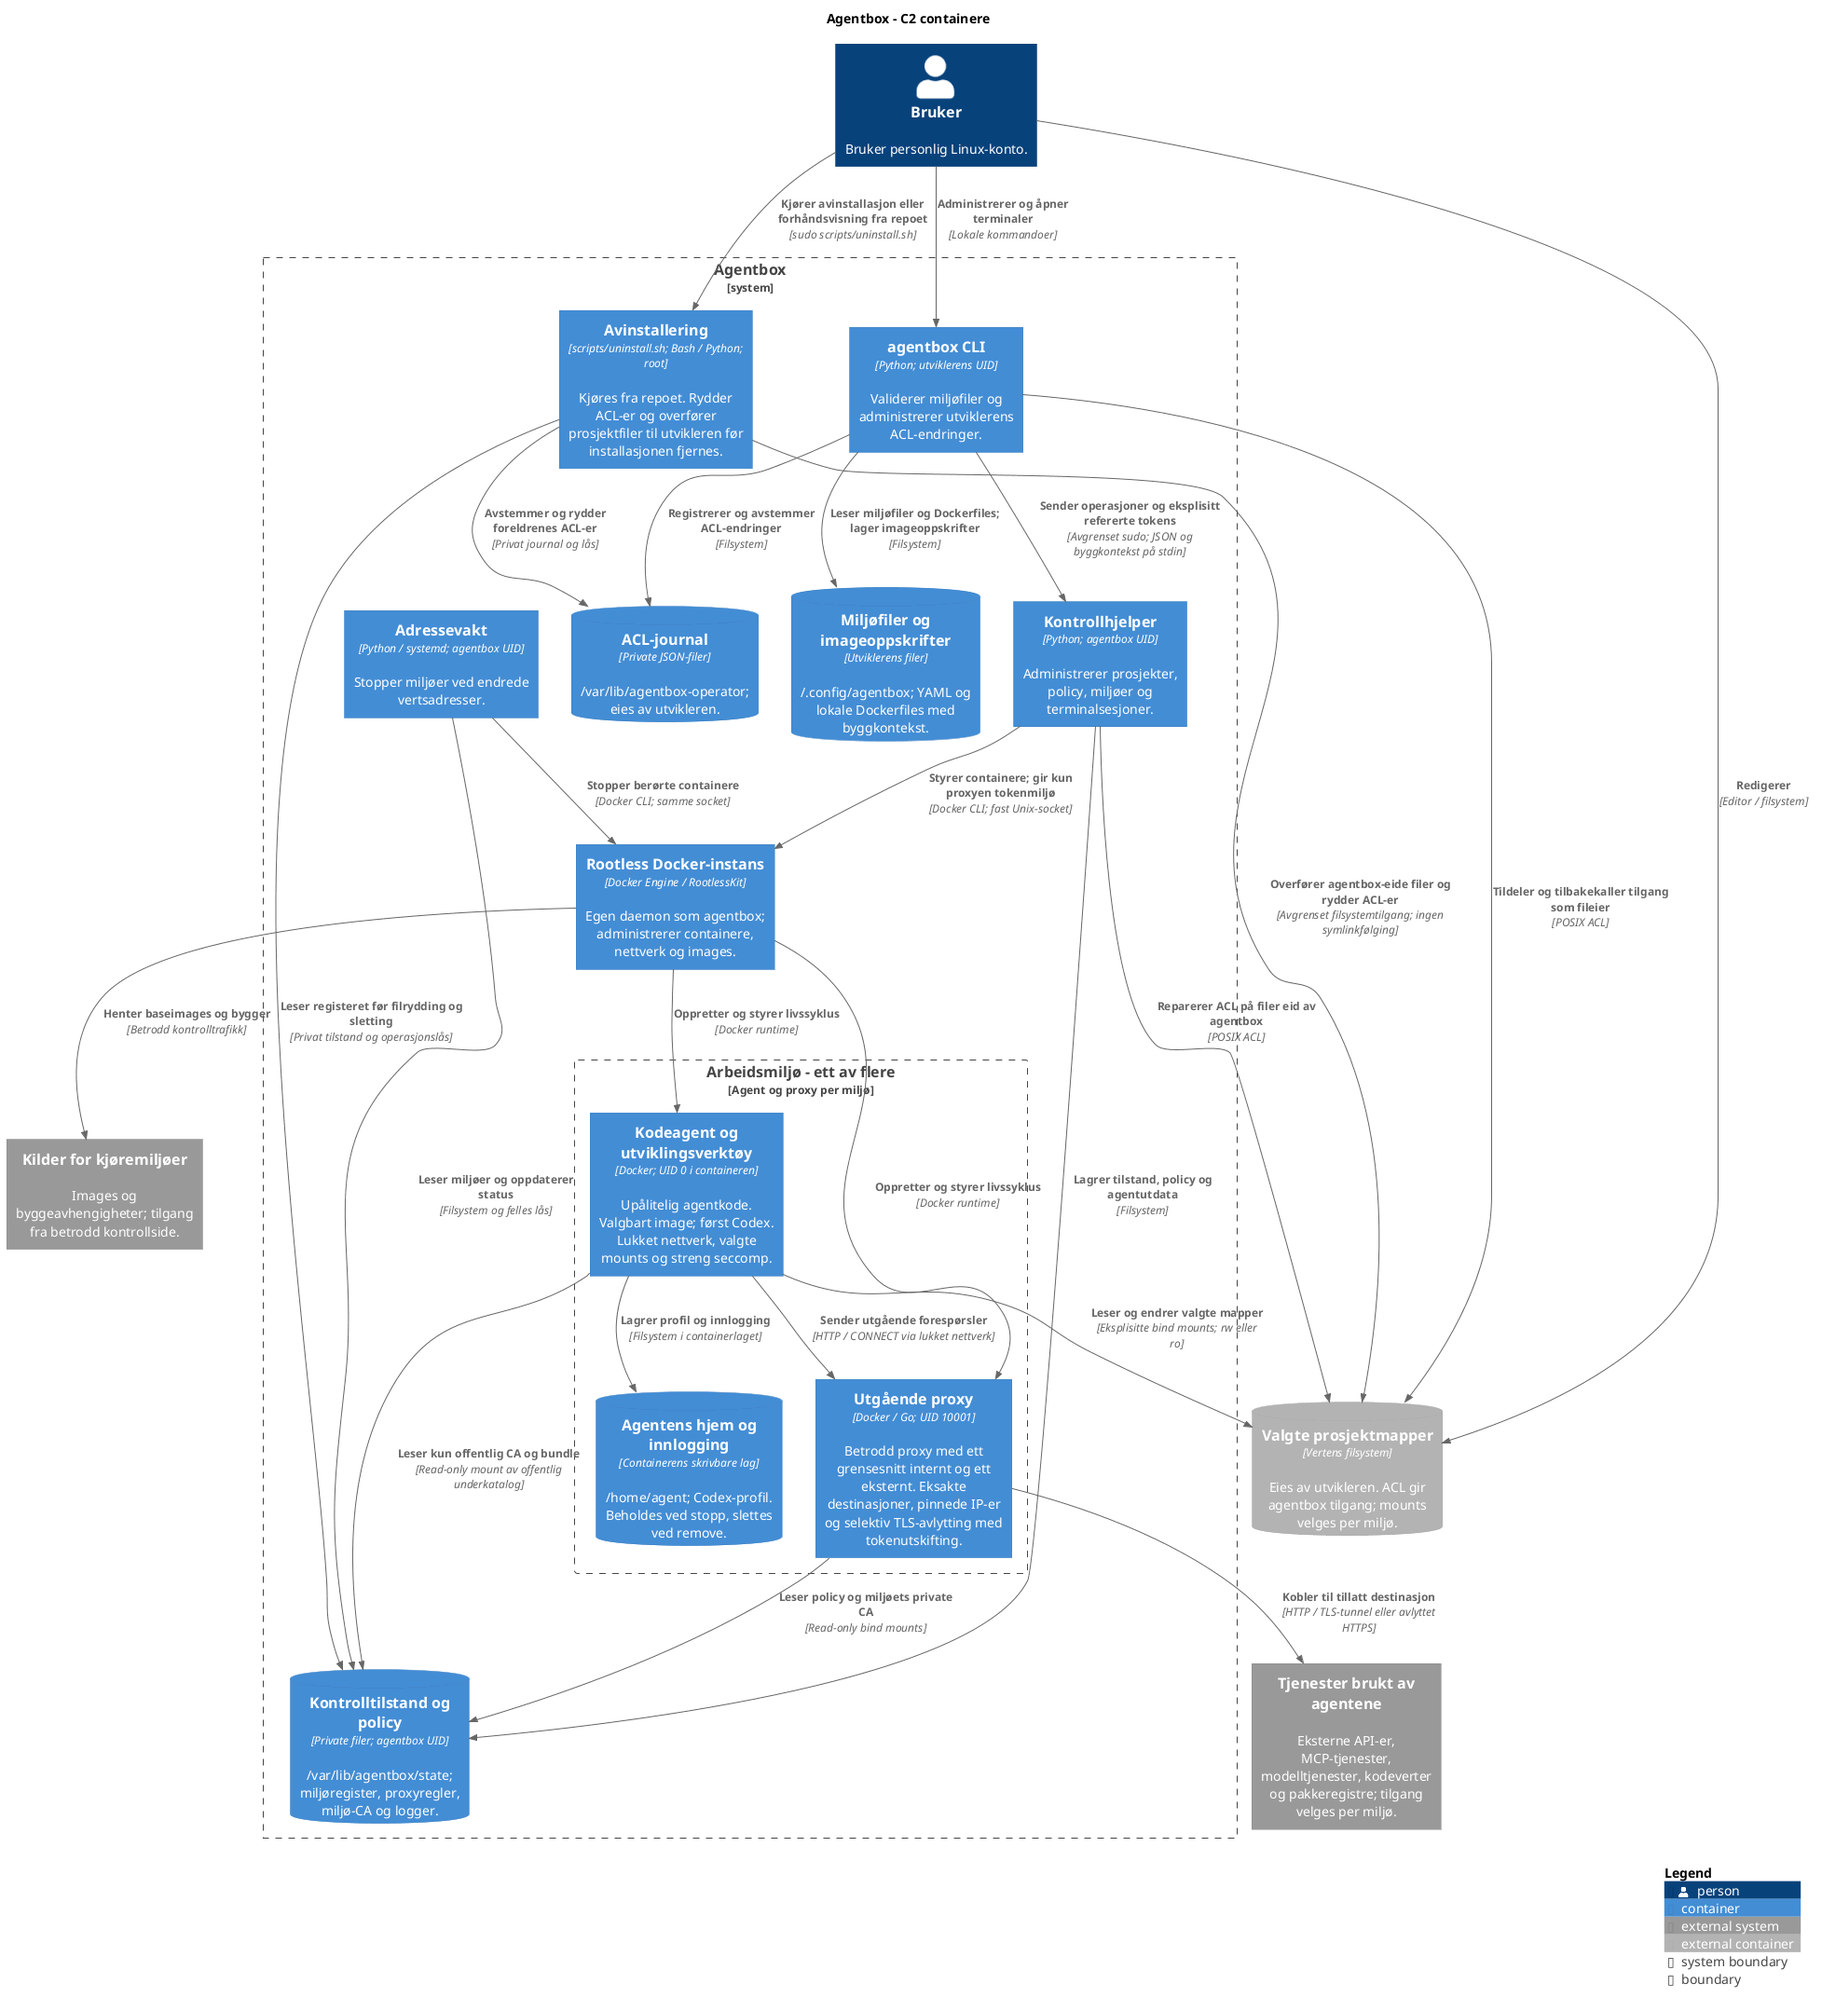
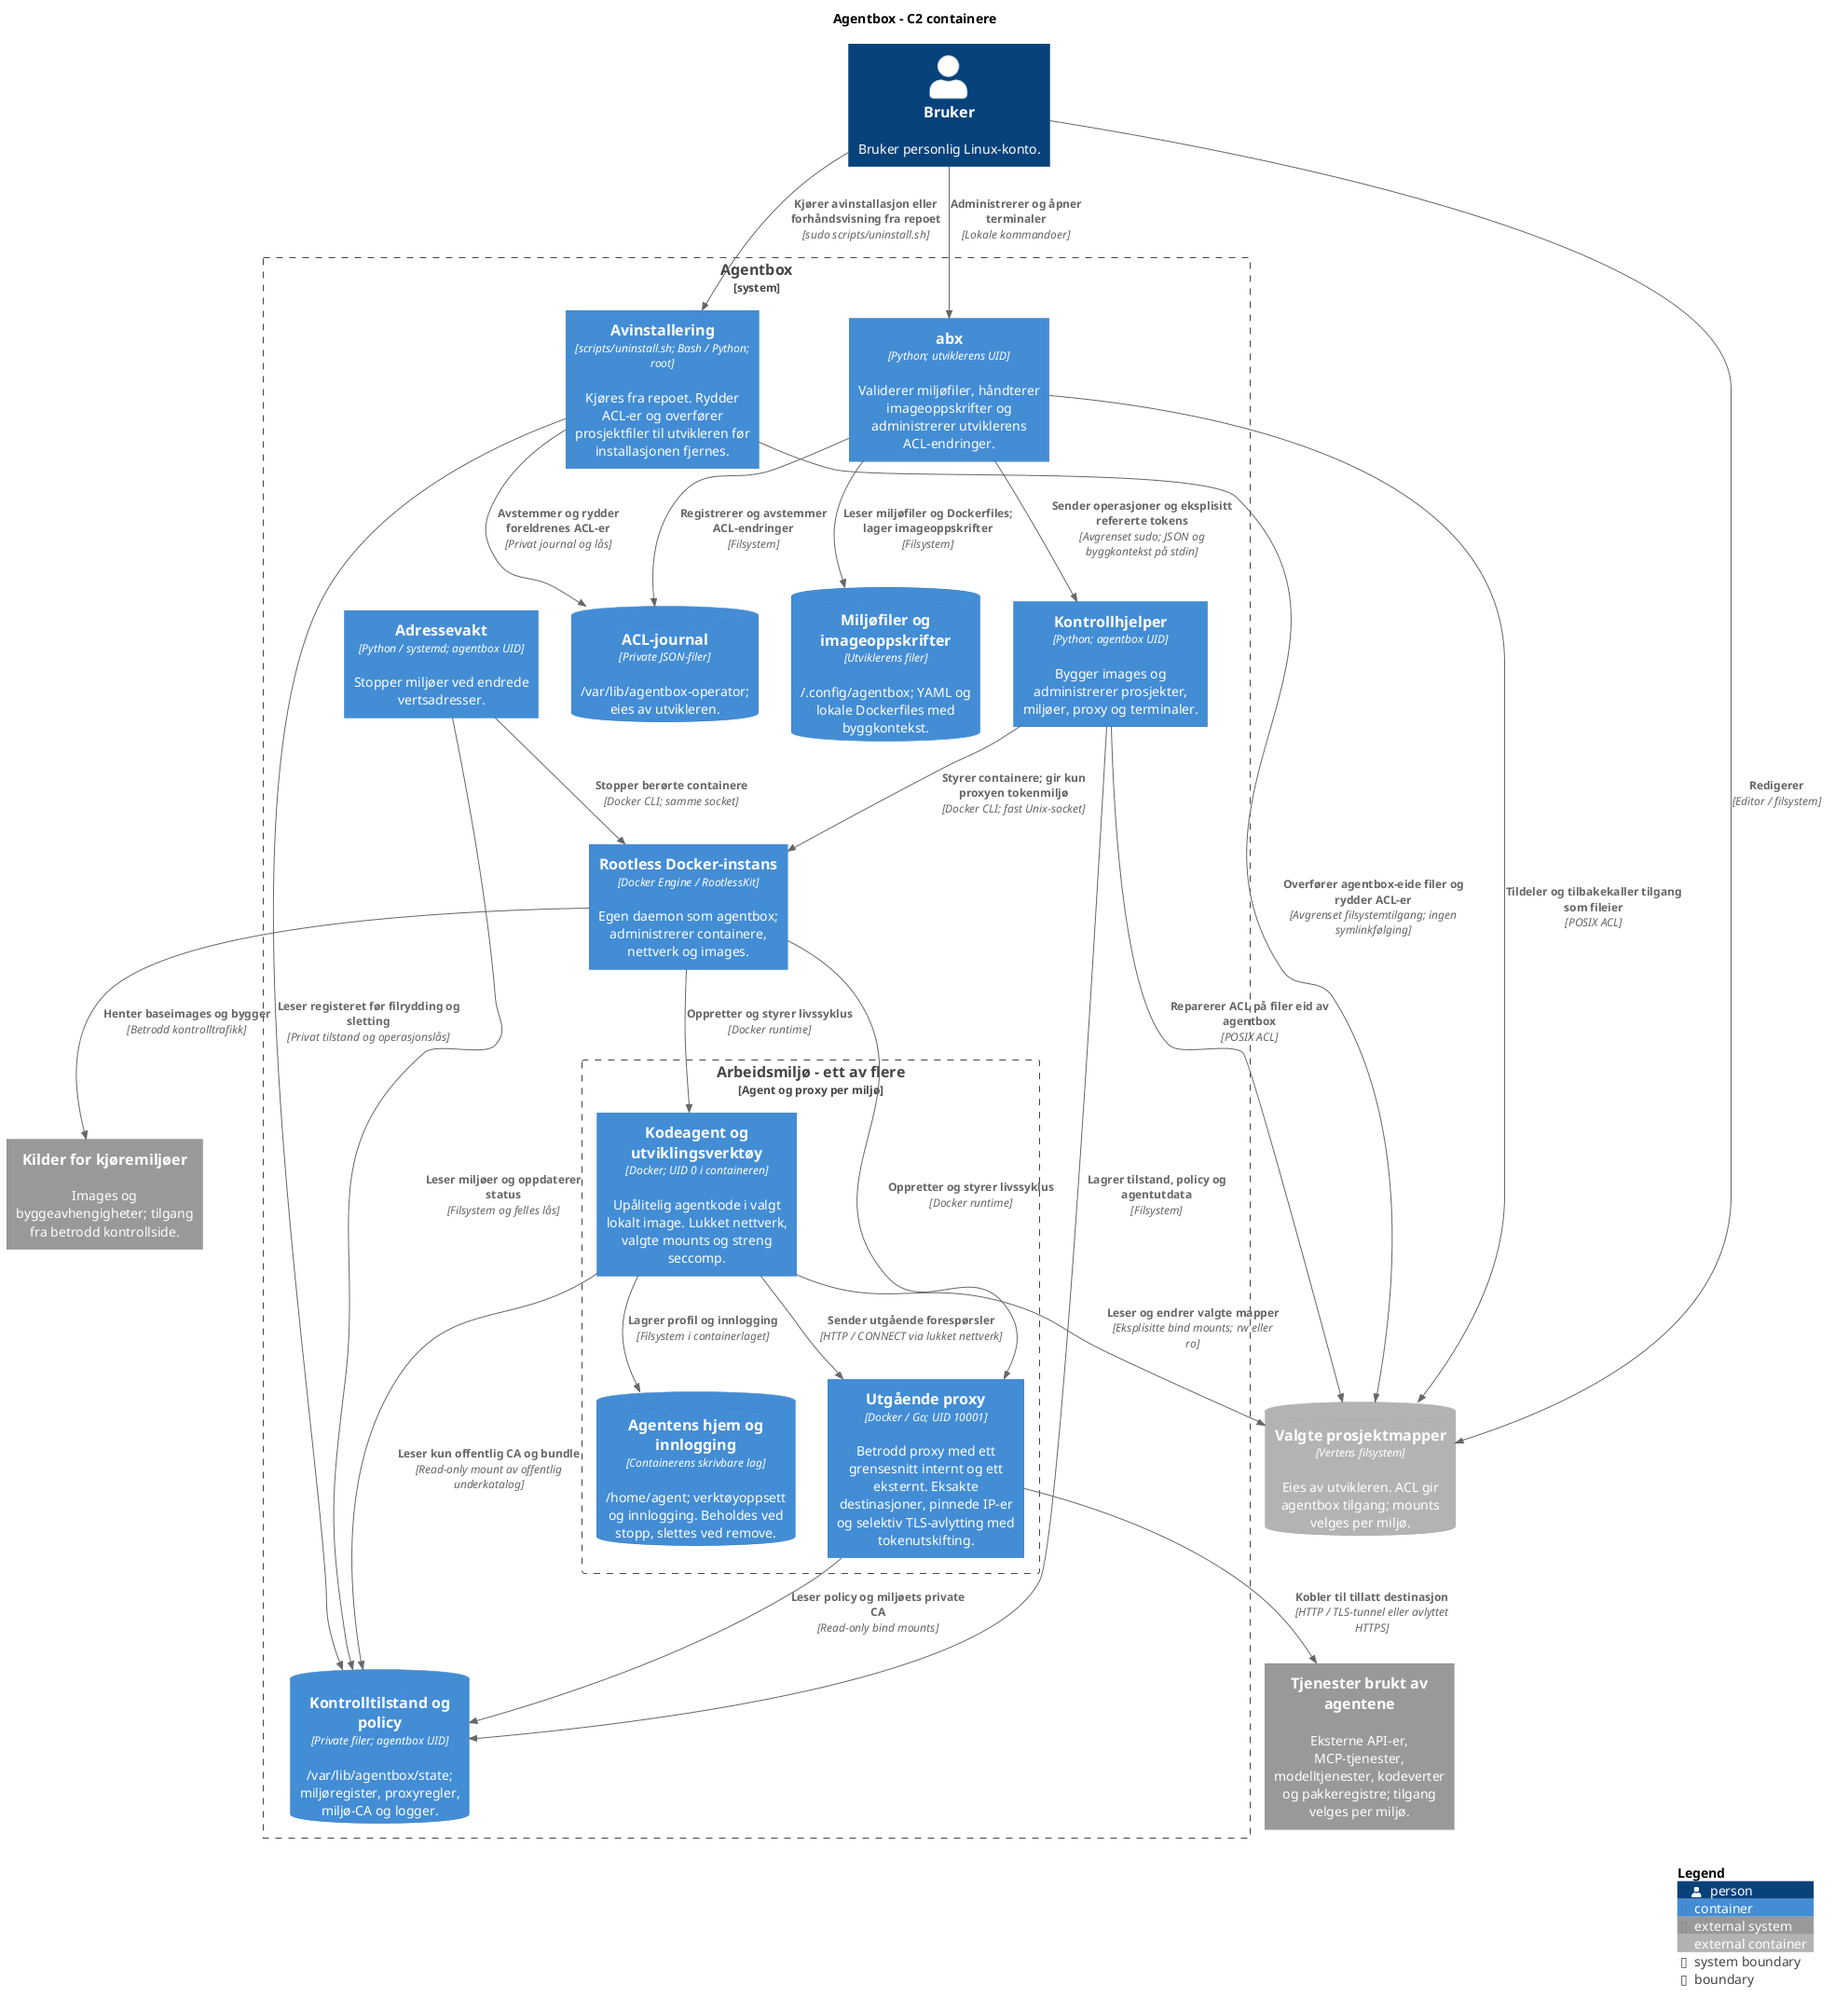
Generalize agent architecture diagrams (#9)

diff --git a/docs/architecture-c4.md b/docs/architecture-c4.md
@@ -46,7 +46,7 @@ brukes i begge roller, eksempelvis et pakkeregister.
 
 API-er og MCP-tjenester kan brukes når miljøets destinasjonsregler tillater
 det. Agentbox tilbyr ikke selv et MCP-grensesnitt. Agenttrafikk avvises som
-standard; imagehenting og imagebygging skjer på kontrollsiden utenfor denne
+standard; imagebygging og henting av baseimages skjer på kontrollsiden utenfor denne
 nettverkspolicyen. C2 viser hvilke deler som håndterer de to trafikkveiene.
 
 ## C2 containere
@@ -68,19 +68,19 @@ System_Ext(services, "Tjenester brukt av agentene", "Eksterne API-er, MCP-tjenes
 System_Ext(registry, "Kilder for kjøremiljøer", "Images og byggeavhengigheter; tilgang fra betrodd kontrollside.")
 
 System_Boundary(agentbox, "Agentbox") {
-    Container(cli, "agentbox CLI", "Python; utviklerens UID", "Validerer miljøfiler og administrerer utviklerens ACL-endringer.")
+    Container(cli, "abx", "Python; utviklerens UID", "Validerer miljøfiler, håndterer imageoppskrifter og administrerer utviklerens ACL-endringer.")
     ContainerDb(recipes, "Miljøfiler og imageoppskrifter", "Utviklerens filer", "~/.config/agentbox; YAML og lokale Dockerfiles med byggkontekst.")
     ContainerDb(journal, "ACL-journal", "Private JSON-filer", "/var/lib/agentbox-operator; eies av utvikleren.")
-    Container(control, "Kontrollhjelper", "Python; agentbox UID", "Administrerer prosjekter, policy, miljøer og terminalsesjoner.")
+    Container(control, "Kontrollhjelper", "Python; agentbox UID", "Bygger images og administrerer prosjekter, miljøer, proxy og terminaler.")
     Container(uninstall, "Avinstallering", "scripts/uninstall.sh; Bash / Python; root", "Kjøres fra repoet. Rydder ACL-er og overfører prosjektfiler til utvikleren før installasjonen fjernes. ")
     Container(watch, "Adressevakt", "Python / systemd; agentbox UID", "Stopper miljøer ved endrede vertsadresser.")
     ContainerDb(state, "Kontrolltilstand og policy", "Private filer; agentbox UID", "/var/lib/agentbox/state; miljøregister, proxyregler, miljø-CA og logger.")
     Container(docker, "Rootless Docker-instans", "Docker Engine / RootlessKit", "Egen daemon som agentbox; administrerer containere, nettverk og images.")
 
     Boundary(environment, "Arbeidsmiljø - ett av flere", "Agent og proxy per miljø") {
-        Container(agent, "Kodeagent og utviklingsverktøy", "Docker; UID 0 i containeren", "Upålitelig agentkode. Valgbart image; først Codex. Lukket nettverk, valgte mounts og streng seccomp.")
+        Container(agent, "Kodeagent og utviklingsverktøy", "Docker; UID 0 i containeren", "Upålitelig agentkode i valgt lokalt image. Lukket nettverk, valgte mounts og streng seccomp.")
         Container(proxy, "Utgående proxy", "Docker / Go; UID 10001", "Betrodd proxy med ett grensesnitt internt og ett eksternt. Eksakte destinasjoner, pinnede IP-er og selektiv TLS-avlytting med tokenutskifting.")
-        ContainerDb(home, "Agentens hjem og innlogging", "Containerens skrivbare lag", "/home/agent; Codex-profil. Beholdes ved stopp, slettes ved remove.")
+        ContainerDb(home, "Agentens hjem og innlogging", "Containerens skrivbare lag", "/home/agent; verktøyoppsett og innlogging. Beholdes ved stopp, slettes ved remove.")
     }
 }
 
@@ -128,7 +128,7 @@ SHOW_LEGEND()
   ekte tokens tilføres bare proxyens miljø. Kontrollhjelperen gjør navneoppløsning
   og adressevalidering før de fastlåste adressene tas i bruk.
 - Prosjektmapper ligger på verten og overlever fjerning av miljøet. Agentens
-  hjem ligger i containerlaget; separat profilvolum er fortsatt et mulig videre valg.
+  hjem ligger i containerlaget; separat profilvolum støttes ikke.
 - Rootless-containerne deler vertens kjerne. Ved et utbrudd med `agentbox`
   sine rettigheter gjelder brukerens samlede vertstilgang, også til andre registrerte prosjekter.
   Agentens UID 0 mappes til tjenestebrukeren på verten; proxyen bruker en egen

diff --git a/docs/architecture.md b/docs/architecture.md
@@ -58,8 +58,8 @@ En systemd-adressevakt stopper miljøer ved endrede vertsadresser;
 vakten er asynkron, og nettverksadministrasjon på verten er betrodd.
 
 Agentimages bygges fra lokale Dockerfiles under `~/.config/agentbox/images/`
-og velges med oppskriftsnavn i YAML. Codex-malen og det separate testimaget
-bruker samme isolering. Images må støtte UID 0, `/bin/sh` og
+og velges med oppskriftsnavn i YAML. Alle kompatible agentimages bruker
+samme isolering. Images må støtte UID 0, `/bin/sh` og
 `sleep infinity`; deklarerte `VOLUME`-mounts avvises.
 Byggkonteksten overføres fra CLI-en som tar etter en JSON-header og pakkes ut
 i en privat midlertidig katalog med datafilter. Docker bygger katalogen og
@@ -77,8 +77,8 @@ Skriptet bruker systemets Python uavhengig av den installerte CLI-en.
 Vanlige kontrolloperasjoner får ikke denne root-tilgangen. Se
 [avinstallasjon](installation.md#avinstallasjon) for omfang og filrydding.
 
-`stop` bevarer containerlaget, inkludert Codex-innlogging. Uendret konfigurasjon
-kan startes igjen. Nettverk/tokenregler aktiveres med `proxy apply` uten å
+`stop` bevarer containerlaget, inkludert verktøyoppsett og innlogging.
+Uendret konfigurasjon kan startes igjen. Nettverk/tokenregler aktiveres med `proxy apply` uten å
 slette hjemmet. Endret agentprofil eller vertsadresse krever `remove` og ny
 `start`; hjem og innlogging slettes da, mens monterte prosjektfiler består.
 Separat profilvolum og automatisk oppstart av miljøer etter vertsreboot er
@@ -146,5 +146,5 @@ En godkjent upstream kan reflektere en ekte nøkkel i responsen. Responsen
 skannes ikke etter hemmeligheter. Tunnelerte CDN-domener kan tillate domain
 fronting; en tillatt tjeneste er del av tillitsvurderingen. Plassholdere som
 videresendes i URL/body eller vanlige tunneler gir ingen tilgang utenfor
-miljøets proxy. Agentens egne Codex/OAuth-data og hemmeligheter i prosjektfiler
+miljøets proxy. Verktøyenes egne innloggingsdata og hemmeligheter i prosjektfiler
 omfattes ikke av denne nøkkelskjermingen.

diff --git a/AGENTS.md b/AGENTS.md
@@ -5,7 +5,7 @@
 Agentbox kjører kodeagenter i en egen rootless Docker-instans som Linux-brukeren
 `agentbox`, med hjem `/var/lib/agentbox`. Hvert miljø har en agentcontainer på
 et lukket nettverk og en Go-proxy med eksplisitt tillatte domene/port-par.
-Det medfølgende utviklingsimaget inneholder Codex; imagevalg er adskilt fra isoleringen.
+Agentimages bygges fra lokale Dockerfiles; imagevalg er adskilt fra isoleringen.
 Eksisterende prosjektmapper monteres direkte med ACL-basert tilgang.
 Worktree-støtte er utsatt.
 
@@ -17,7 +17,7 @@ pakkeflavour eller upstream-build kan endres når kravene tilsier det.
 
 - `src/agentbox/`: Python-CLI, kontrollhjelper, konfigurasjon, ACL, nettverk og tilstand.
 - `src/agentbox/completions/`: Bash-completion, installert av vertsinstalleren.
-- `src/agentbox/templates/`: maler for lokale agentimages (base og Codex).
+- `src/agentbox/templates/`: maler for lokale agentimages.
 - `images/smoke/`: separat testoppskrift for laben.
 - `proxy/`: Go-proxy, tester og flertrinns imagebygg; JSON-policy genereres av `src/agentbox/policy.py`.
 - `environments/`: miljøkonfigurasjoner uten hemmeligheter.
@@ -76,7 +76,6 @@ Behold fast Docker-socket, identitetskontroll og avgrenset sudo-hjelper.
 Ikke innfør privilegerte containere, vertsnettverk eller Docker-socket i agenten.
 Test tillatt proxytrafikk, avvisning, direkte tilgang og ACL-konsekvenser ved
 relevante endringer. Skill observerte labresultater fra utestede garantier.
-Agentbox 1.0 er verifisert gjennom labprøver og manuell Codex-bruk på verten.
 Ekte tokens leses fra operatørens eksplisitte miljøvariabler og gis bare til proxyens miljø.
 Reglenes `env` støtter `klient=kilde`; kortform bruker samme navn. Ny
 opprettelse med tom/manglende kilde gir tom klientvariabel. Ellers får agenten

diff --git a/docs/decisions.md b/docs/decisions.md
@@ -124,7 +124,7 @@ tilgangslogg viser bare destinasjon og resultat. Agentens egne utdata streames
 og lagres i private, roterte logger; de kan inneholde det agenten skriver.
 
 Stopp og gjenopptak med uendret konfigurasjon bevarer containerlaget og
-Codex-innlogging. Separat profilvolum er ikke implementert.
+verktøyoppsett og innlogging. Separat profilvolum er ikke implementert.
 Endret agentprofil eller vertsadresse krever eksplisitt fjerning og ny
 opprettelse. Nettverk/tokenregler aktiveres med proxy apply; gjenopptak av
 stoppet Go-miljø validerer og fastlåser DNS på nytt.

diff --git a/docs/test-results.md b/docs/test-results.md
@@ -15,6 +15,7 @@ Debian 13, Go 1.27.3 og goproxy v1.9.2. Laben bruker Codex 0.166.0 og smoke-imag
 | Ruff lint/format, Bash-syntaks og gofmt | Bestått |
 | Go race og vet | Bestått, HTTP/1 og HTTP/2 |
 | govulncheck v1.9.0, Go 1.27.3 | Ingen sårbarheter som kan nås |
+| C4-kilde og bilder | SVG/PNG rendret; etiketter, lesbarhet og lenker kontrollert |
 | Wheel | Dockerfile-maler og Codex-launcher inkludert |
 | Installasjon og imagebygg i VM | Bestått; installerte filer sammenlignet med kilde |
 | Installert CLI og oppsett | 14 scenarier bestått, ingen skips |
